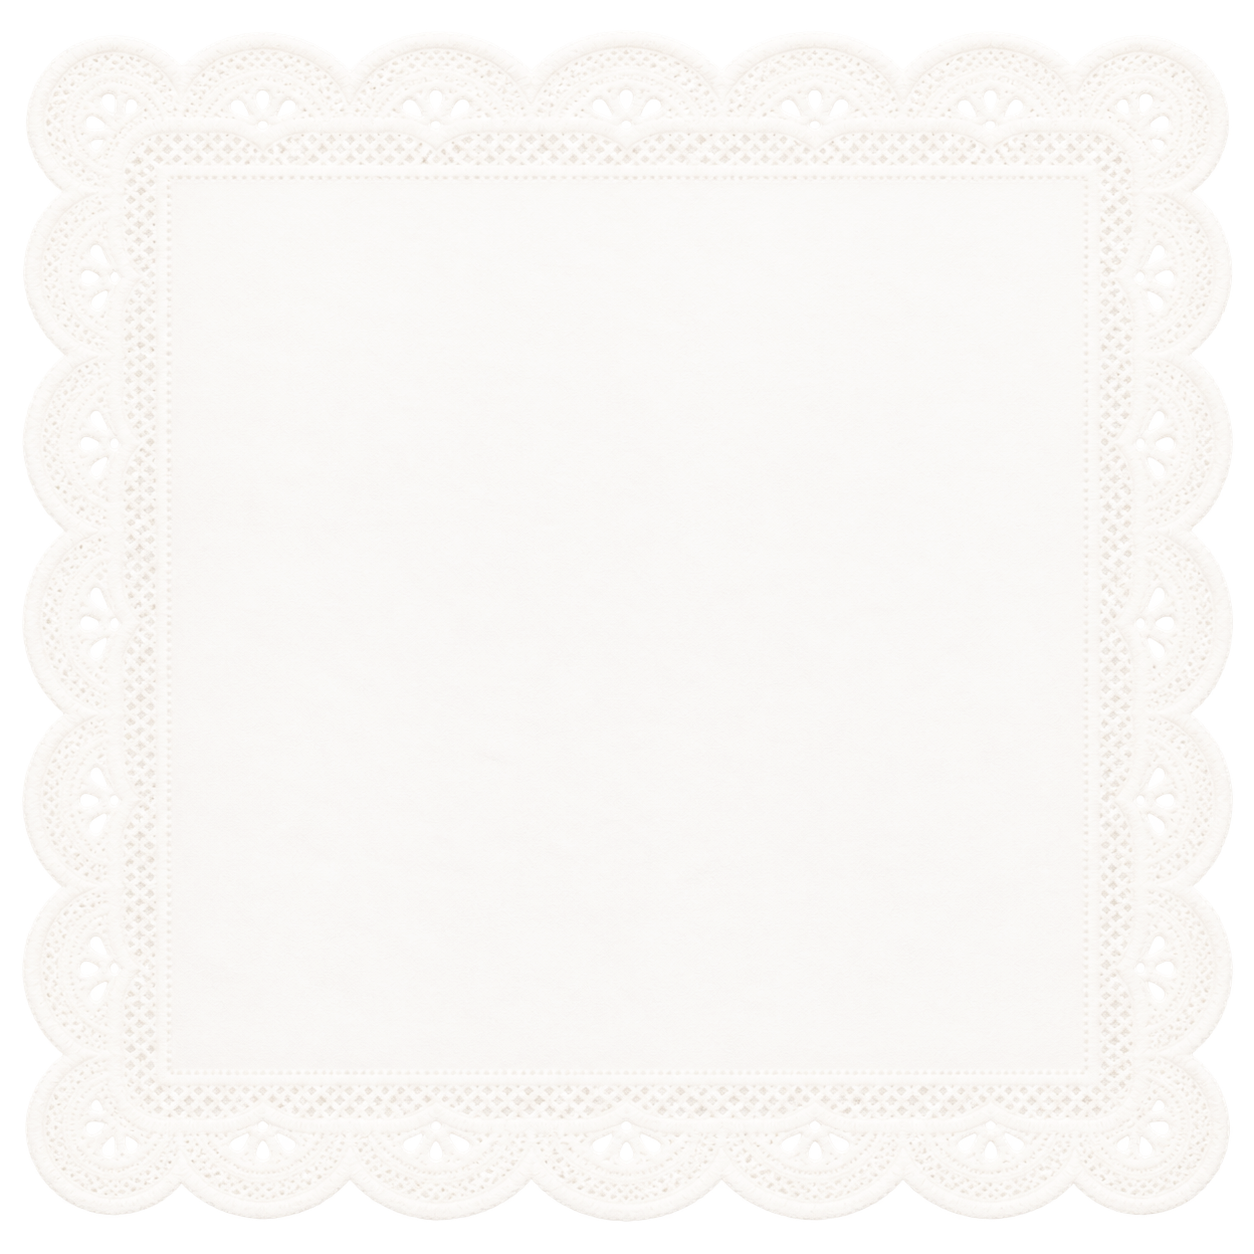
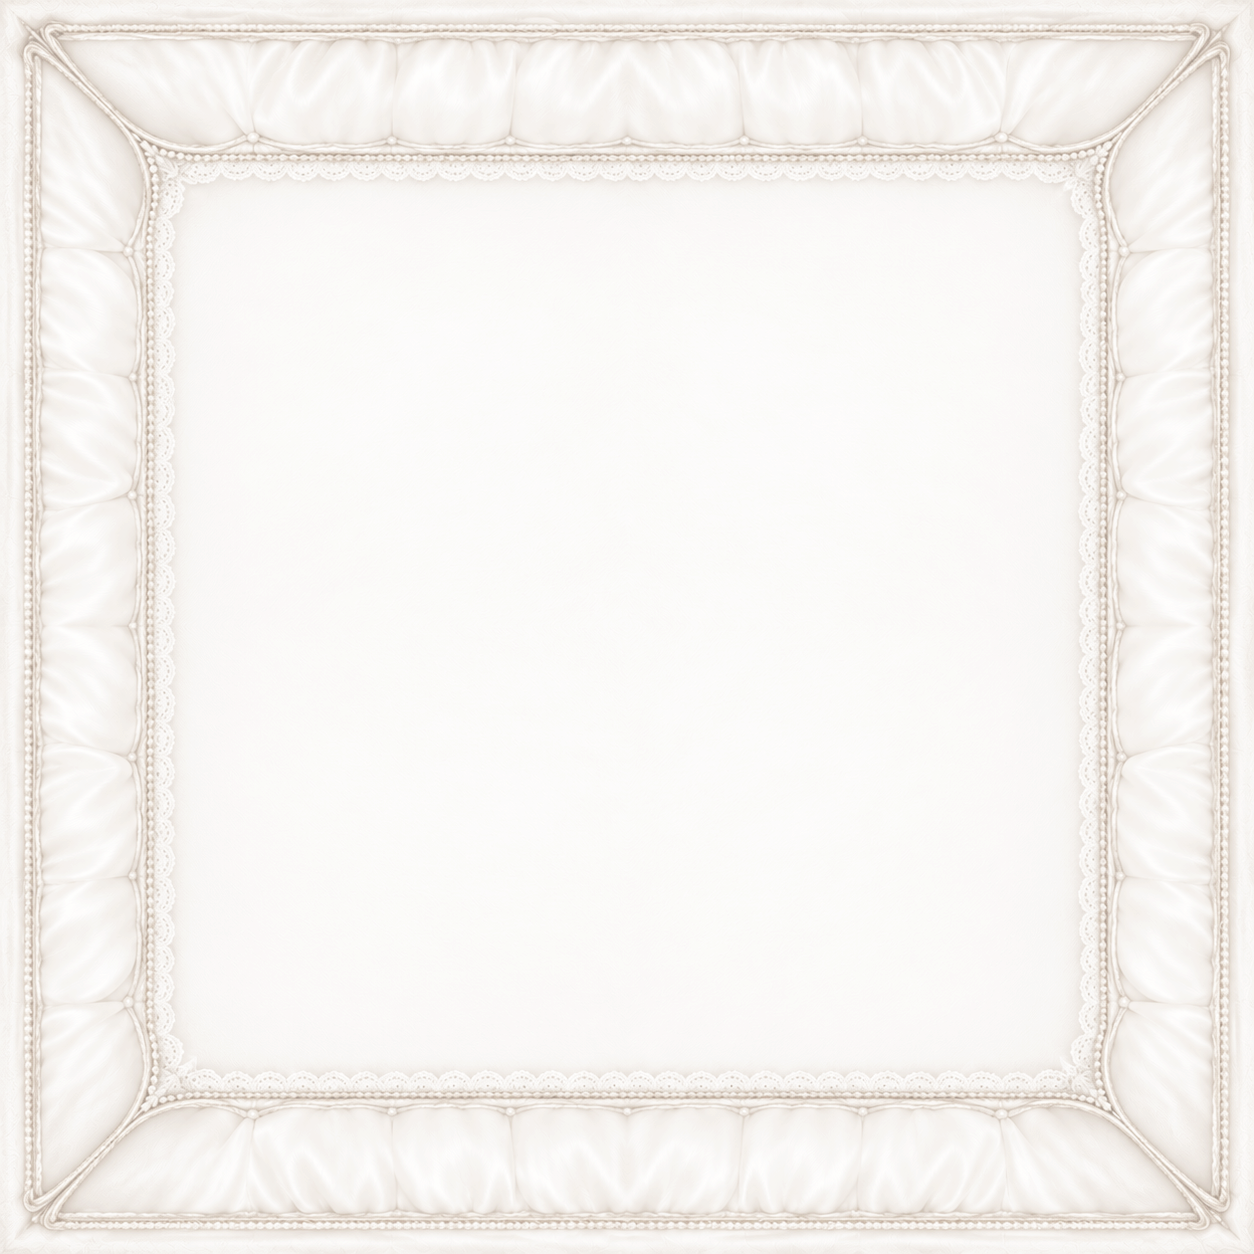
Update border styles and image for improved layout

Changed region(s): [[0.0, 0.0, 1.0, 1.0]]

diff --git a/style.css b/style.css
@@ -160,9 +160,9 @@ body:has(.about-layout) {
   margin:0px auto;
     overflow-y: auto;
     scrollbar-color: #e2d5d0 transparent;
-    border: 40px solid transparent;
+    border: 80px solid transparent;
     border-image-source: url('./img/border.png');
-    border-image-slice: 18% fill;
+    border-image-slice: 20% fill;
     border-image-repeat: round;
     background-color: transparent;
     padding: 15px 0px 15px 0px;
@@ -257,7 +257,7 @@ body:has(.about-layout) {
     padding: 0px;
     border: 30px solid transparent;
     border-image-source: url('./img/border.png');
-    border-image-slice: 18% fill;
+    border-image-slice: 20% fill;
     border-image-repeat: round;
     background-color: transparent;
 }
